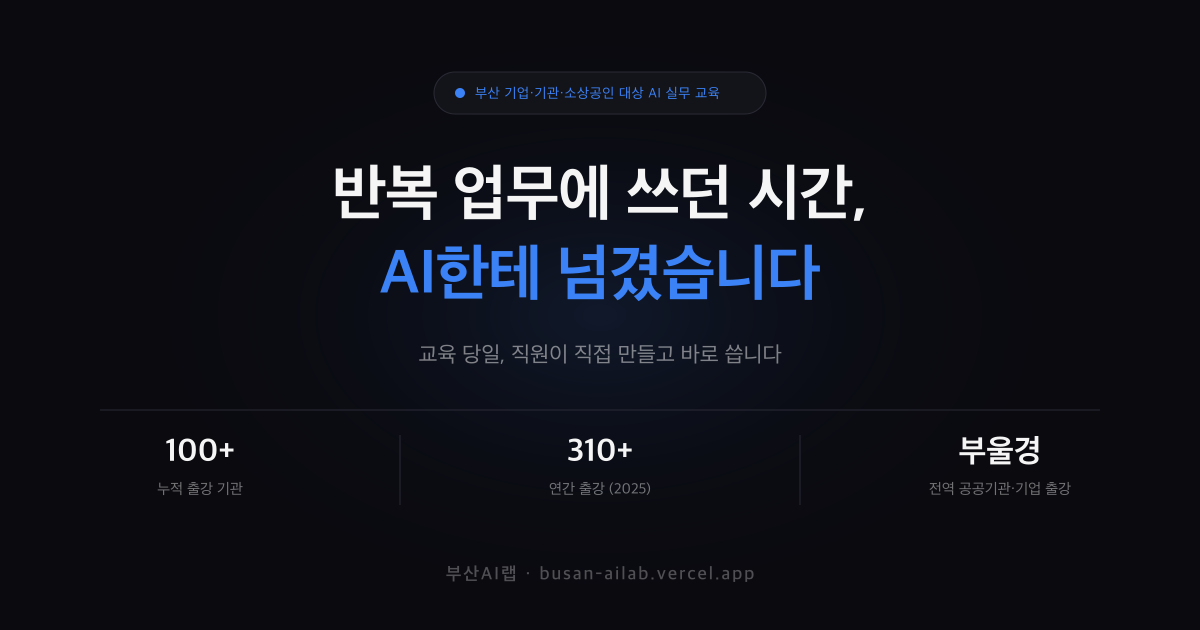
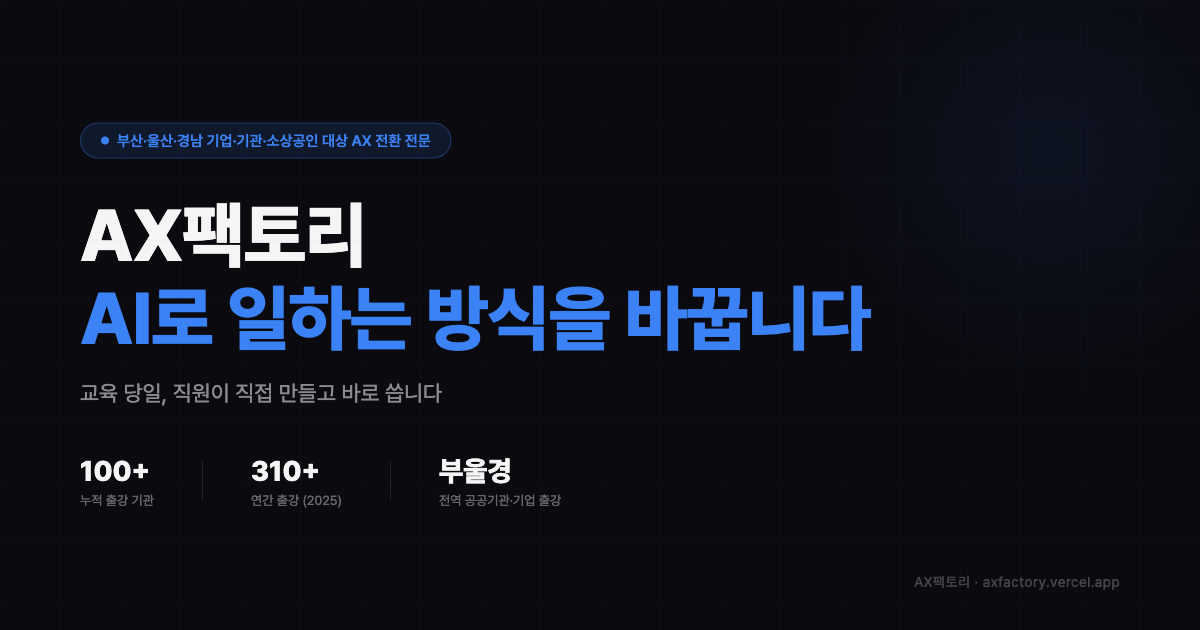
feat: AX팩토리 브랜딩 마무리
- og.png 재생성 (부산AI랩 → AX팩토리 · axfactory.vercel.app)
- BridgeSection, ReferencesSection 조사 오류 수정 (은→는)

diff --git a/src/components/ReferencesSection.tsx b/src/components/ReferencesSection.tsx
@@ -51,7 +51,7 @@ export default function ReferencesSection() {
             </div>
             <h2 className="text-3xl sm:text-4xl font-bold mb-4">교육 경험이 다릅니다</h2>
             <p className="text-[#F5F5F5]/50 text-base sm:text-lg">
-              AX팩토리은 부산AI코딩스쿨 운영팀이 만든 AI 실무 전문 브랜드입니다.<br />
+              AX팩토리는 부산AI코딩스쿨 운영팀이 만든 AI 실무 전문 브랜드입니다.<br />
               아래는 팀이 직접 출강한 기관들입니다.
             </p>
           </div>

diff --git a/src/components/BridgeSection.tsx b/src/components/BridgeSection.tsx
@@ -12,7 +12,7 @@ export default function BridgeSection() {
             <span>🎓</span> 관련 브랜드
           </div>
           <h2 className="text-2xl sm:text-3xl font-bold mb-4 leading-snug">
-            AX팩토리은 부산AI코딩스쿨 운영팀이 만들었습니다
+            AX팩토리는 부산AI코딩스쿨 운영팀이 만들었습니다
           </h2>
           <p className="text-[#F5F5F5]/50 text-base sm:text-lg mb-10 leading-relaxed">
             100개 이상 기관 교육,<br />
